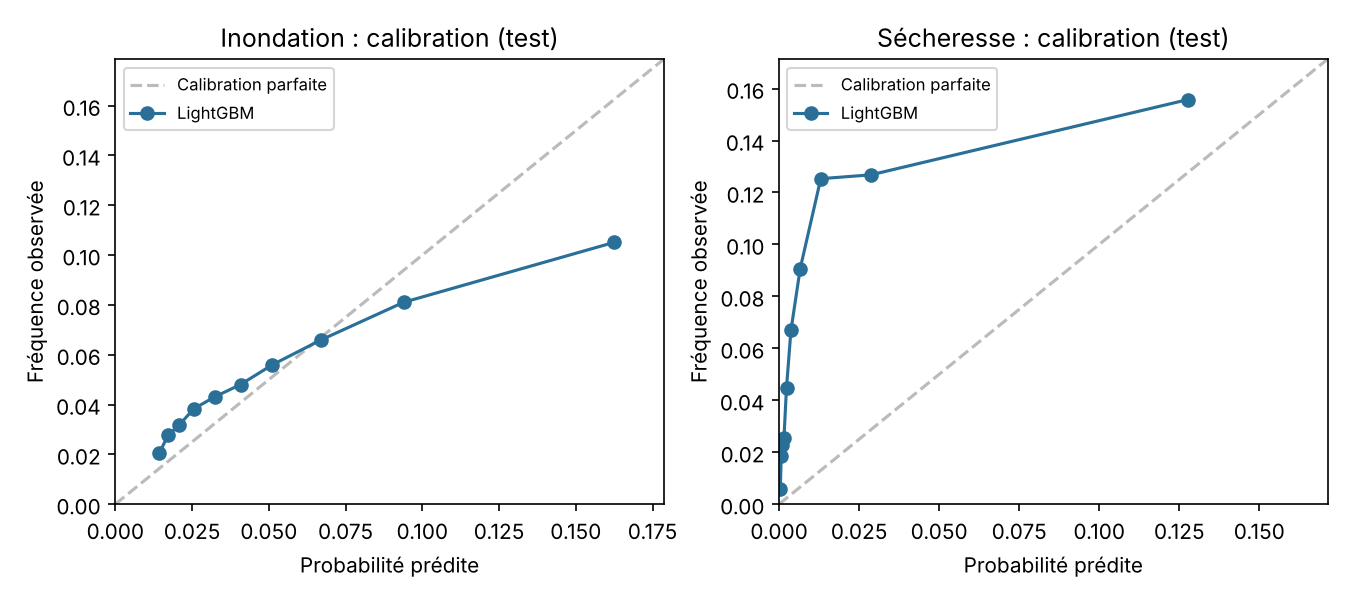
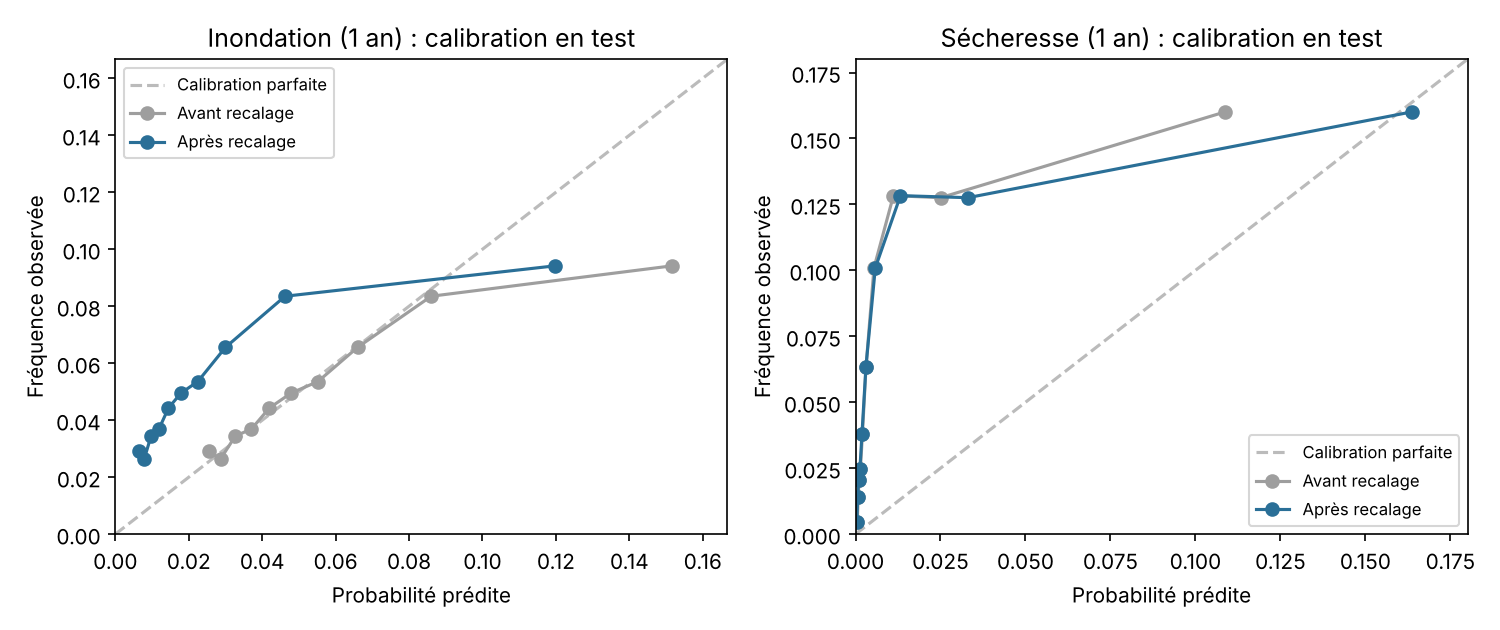
Résultats des améliorations : argiles, horizons 1/3/5 ans, calibration (journal, README, figures)

diff --git a/README.md b/README.md
@@ -21,8 +21,8 @@ Ce projet construit, à partir de données publiques :
 ## 🗺 Feuille de route
 
 - [x] **Étape 1** — Ingestion et qualité : base GASPAR, référentiel des communes, tests unitaires
-- [x] **Étape 2** — Data engineering : modèles dbt dans BigQuery, 26 tests de données dont un test anti-fuite, mise à jour hebdomadaire (GitHub Actions)
-- [x] **Étape 3** — Machine learning : LightGBM par péril, validation temporelle, variables « à date », explicabilité (SHAP)
+- [x] **Étape 2** — Data engineering : modèles dbt dans BigQuery, 30 tests de données dont un test anti-fuite, mise à jour hebdomadaire (GitHub Actions)
+- [x] **Étape 3** — Machine learning : LightGBM par péril à 1, 3 et 5 ans, exposition aux argiles, validation temporelle, variables « à date », explicabilité (SHAP)
 - [ ] **Étape 4** — IA générative : fiches de risque contrôlées, assistant en langage naturel
 - [ ] **Étape 5** — Application Streamlit en ligne, documentation
 
@@ -32,7 +32,8 @@ Ce projet construit, à partir de données publiques :
 |---|---|---|---|
 | [Base GASPAR](https://www.data.gouv.fr/datasets/base-nationale-de-gestion-assistee-des-procedures-administratives-relatives-aux-risques-gaspar) | Ministère de la Transition écologique | Arrêtés de catastrophe naturelle par commune depuis 1982 | Licence Ouverte |
 | [API Découpage administratif](https://geo.api.gouv.fr/decoupage-administratif) | Etalab | Communes, population, superficie, coordonnées | Licence Ouverte |
-| [API Géorisques](https://www.data.gouv.fr/dataservices/api-georisques) *(étape 3)* | Ministère de la Transition écologique, BRGM | Exposition aux inondations et aux argiles | Licence Ouverte |
+| [Zonage d'exposition au retrait-gonflement des argiles](https://files.georisques.fr/argiles/AleaRG_Fxx_L93.zip) | BRGM, via Géorisques | Exposition des sols (2019), croisée avec les communes par `src/exposition_argiles.py` | Licence Ouverte |
+| [Contours des communes](https://geo.api.gouv.fr/decoupage-administratif) | Etalab | Limites communales (2025) | Licence Ouverte |
 
 ## 🔎 Premiers résultats
 
@@ -70,6 +71,7 @@ Le même projet dbt tourne sur **deux bases** : **DuckDB** en local (aucun compt
 | intermediate | `int_evenements` | Événements distincts, communes actuelles, 1982-2024 |
 | intermediate | `int_grille_commune_annee` | Toutes les combinaisons commune × année × péril, **zéros compris** |
 | intermediate | `int_historique_a_date` | Historique de chaque commune **tel qu'il était connu au 1er janvier** (arrêtés déjà signés) |
+| seeds | `exposition_argiles` | Part de chaque commune en exposition faible, moyenne ou forte aux argiles |
 | marts | `dim_commune` | Communes et résumé de leur historique |
 | marts | `fct_evenements` | Un événement reconnu par ligne, prêt pour l'analyse |
 | marts | `mart_features_risque` | **Table d'entraînement du modèle** : historique sur 1, 5 et 10 ans, années depuis le dernier événement, fréquence dans le département, densité… |
@@ -81,21 +83,28 @@ Le même projet dbt tourne sur **deux bases** : **DuckDB** en local (aucun compt
 
 ## 🤖 Modèle de prédiction
 
-Pour chaque commune, un modèle **LightGBM** par péril estime la probabilité d'une reconnaissance CatNat dans l'année, à partir de ce qui était connu au 1er janvier : historique de la commune et du département, taille, localisation.
+Pour chaque commune et chaque péril, des modèles **LightGBM** estiment le risque d'au moins une reconnaissance CatNat **dans 1, 3 ou 5 ans**, à partir de ce qui était connu au 1er janvier : historique de la commune et du département, taille, localisation et **exposition des sols aux argiles** (zonage BRGM).
 
-- **Validation temporelle :** entraînement sur le passé, choix du modèle sur des années de validation, puis **un seul** passage sur des années de test jamais vues (inondation 2021-2024, sécheresse 2017-2021).
-- **Variables « à date » :** au 1er janvier, **aucune** sécheresse de l'année précédente n'est encore reconnue, contre 81 % des inondations. Sans cette règle, le modèle aurait appris avec des informations indisponibles en conditions réelles.
+- **Validation temporelle :** entraînement sur le passé, choix sur des années de validation, puis **un seul** passage sur des années de test jamais vues. Pour les horizons longs, les fenêtres de cible ne se chevauchent jamais entre entraînement, validation et test.
+- **Variables « à date » :** au 1er janvier, **aucune** sécheresse de l'année précédente n'est encore reconnue, contre 81 % des inondations. Les variables ne comptent que les arrêtés déjà signés.
+- **Année exceptionnelle écartée :** en 1999, les tempêtes de décembre ont conduit à reconnaître 78 % des communes en inondation. Les fenêtres qui contiennent cette année inversaient ce que le modèle apprenait ; elles sont exclues de l'entraînement par une règle automatique.
 - **Comparé à deux références :** l'historique de la commune et une régression logistique.
-- **Explicable :** chaque prédiction est décomposée en valeurs SHAP (TreeSHAP exact, identique à la librairie `shap`), et les 3 facteurs principaux sont conservés pour l'IA générative de l'étape 4.
+- **Explicable :** chaque prédiction est décomposée en valeurs SHAP (TreeSHAP exact), et les 3 facteurs principaux sont conservés pour l'IA générative de l'étape 4.
 
-| Péril | AUC test (par année) | Top 10 % des communes jugées les plus à risque |
-|---|---:|---|
-| Inondation | **0,67** (référence : 0,64) | 23 % des communes touchées, **2,3 fois** mieux qu'un ciblage au hasard |
-| Sécheresse | **0,75** (référence : 0,71) | 25 % des communes touchées, **2,5 fois** mieux qu'un ciblage au hasard |
+| Péril | Horizon | AUC test LightGBM | Référence (historique) |
+|---|---|---:|---:|
+| Inondation | 1 an | 0,66 | 0,64 |
+| | 3 ans | 0,68 | 0,66 |
+| | 5 ans | **0,69** | 0,67 |
+| Sécheresse | 1 an | 0,76 | 0,71 |
+| | 3 ans | 0,75 | 0,66 |
+| | 5 ans | **0,81** | 0,70 |
 
-**Ce que le modèle ne sait pas faire, et pourquoi :** une reconnaissance CatNat dépend surtout de la météo de l'année, que personne ne connaît au 1er janvier. Le modèle **classe** les communes à risque, mais ses probabilités brutes ne sont pas fiables en absolu (la sécheresse progresse plus vite que dans les années d'entraînement) : il est donc présenté comme un **classement** (percentile national). Les grandes sécheresses de 2018-2020 ont surtout touché des communes que l'historique ne classait pas parmi les plus exposées. Détail et pistes dans le [journal d'analyse](docs/journal_analyse.md).
+**L'exposition aux argiles est devenue la variable la plus influente pour la sécheresse**, devant la latitude qui servait jusque-là de substitut à la nature du sol. Elle améliore l'AUC de test de 0,02 à 0,03 selon l'horizon.
 
-![AUC par année de test](docs/figures/auc_par_annee.png)
+**Ce que le modèle ne sait pas faire :** une reconnaissance dépend surtout de la météo, inconnue au 1er janvier. Le modèle **classe** bien les communes, mais ses probabilités ne sont pas fiables en valeur absolue, et les recaler sur les années récentes n'a pas suffi (voir le [journal d'analyse](docs/journal_analyse.md)). Le résultat à utiliser est donc le **classement** (percentile national).
+
+![AUC de test par horizon](docs/figures/auc_par_horizon.png)
 
 ![Importance des variables (SHAP)](docs/figures/importance_shap.png)
 
@@ -142,7 +151,7 @@ python src/lancer_dbt.py bigquery  # modèles dbt + tests dans BigQuery
 
 ## 🛠 Stack
 
-Python (pandas, pytest, scikit-learn, LightGBM) · SQL · Google BigQuery · dbt (BigQuery, DuckDB) · GitHub Actions · Workload Identity Federation · scikit-learn · SHAP · Gemini · Streamlit
+Python (pandas, pytest, scikit-learn, LightGBM, GeoPandas) · SQL · Google BigQuery · dbt (BigQuery, DuckDB) · GitHub Actions · Workload Identity Federation · SHAP · Gemini · Streamlit
 
 ---
 

diff --git a/docs/journal_analyse.md b/docs/journal_analyse.md
@@ -241,3 +241,83 @@ La colonne `annee_evaluable` signale les autres lignes, que l'étape 3 n'utilise
 - **Exposition physique :** ajouter la carte d'exposition au retrait-gonflement des argiles (BRGM) et les zones inondables, plutôt que la latitude et la longitude. Ce sont des polygones à croiser avec les contours des communes, d'où un traitement géographique plus lourd.
 - **Recalibrer** les probabilités sur les années récentes, pour les rendre utilisables en tarification.
 - **Horizon pluriannuel :** prédire « au moins une reconnaissance dans les 5 ans » serait moins dépendant de la météo d'une année, et plus proche des besoins d'un assureur.
+
+---
+
+## Étape 3 bis — Améliorer le modèle
+
+Trois pistes, testées dans cet ordre : l'exposition physique des sols, la calibration des probabilités, puis des horizons de prédiction à 3 et 5 ans.
+
+### 1. Exposition aux argiles ✅
+
+- **Hypothèse :** pour la sécheresse, la latitude et la longitude servaient de substitut à la nature du sol. La vraie information devrait faire mieux.
+- **Source :** le zonage d'exposition au retrait-gonflement des argiles du BRGM (2019, 122 222 zones, 3 niveaux). Le service statistique du ministère publie des agrégats, mais par intercommunalité seulement, ce qui est trop grossier.
+- **Méthode :** 200 points tirés au hasard dans chaque commune (contours Etalab 2025), puis croisés avec les zones. La part des points donne la part du territoire par niveau d'exposition. Le calcul (7 millions de points, 13 minutes) tourne une seule fois sur GitHub Actions ; le résultat (34 881 communes) est versionné comme table de référence dbt (`seeds/exposition_argiles.csv`).
+- **Contrôle de vraisemblance :** le Gers (91 % de surface en exposition forte), le Lot-et-Garonne et la Haute-Garonne sont en tête, comme attendu dans le Sud-Ouest argileux. La Bretagne et la Corse sont peu exposées. Paris n'est pas couvert par la carte.
+- **Résultat :** la part en exposition forte devient **la variable la plus influente** du modèle sécheresse, devant la latitude.
+
+| Sécheresse | AUC validation sans → avec | AUC test sans → avec |
+|---|---:|---:|
+| 1 an | 0,906 → 0,916 | 0,738 → 0,759 |
+| 3 ans | 0,902 → 0,918 | 0,722 → 0,751 |
+| 5 ans | 0,910 → 0,920 | 0,778 → 0,808 |
+
+- Pour l'inondation, l'effet est nul, ce qui est logique : ce n'est pas le bon phénomène physique. Les variables sont gardées pour la simplicité (un seul jeu de variables), sans dégrader les résultats.
+- **Limite :** le zonage date de 2019 et s'appuie en partie sur des sinistres passés. Pour les années de test 2017-2018, une petite part d'information postérieure est possible. La géologie, elle, ne change pas.
+- **Non fait pour l'inondation :** il n'existe pas de carte nationale unique des zones inondables en open data (les enveloppes EAIP sont publiées région par région). Les plans de prévention et atlas datés de GASPAR avaient déjà été testés sans gain.
+
+### 2. Horizons de 3 et 5 ans
+
+- **Cible :** au moins une reconnaissance entre l'année t et l'année t + h - 1.
+- **Découpage :** une fenêtre de 5 ans démarrant en 2018 couvre 2018-2022. Pour qu'aucune année de cible ne soit partagée, l'entraînement s'arrête 5 ans avant le début de la validation, et la validation 5 ans avant le test (test unitaire dédié). Seules les fenêtres entièrement évaluables sont utilisées (sécheresse : jusqu'en 2021).
+
+#### ❌ Une anomalie : l'inondation à 5 ans sous le hasard
+
+- **Observation :** au premier essai, l'AUC de validation de l'inondation à 5 ans valait **0,47**, pire que le hasard, alors que l'historique seul faisait 0,61.
+- **Diagnostic :** par année de départ, l'historique est un bon prédicteur (AUC 0,6 à 0,7)… sauf pour les fenêtres qui contiennent **1999**, où il s'inverse (AUC 0,37 à 0,43).
+- **Cause :** en 1999, **77,9 %** des communes ont été reconnues en inondation, contre 1 à 16 % les autres années (tempêtes de décembre). Les communes jamais touchées l'ont été aussi. Les fenêtres de 1995 à 1999 contiennent toutes cette année, avec plus de 80 % de communes « touchées », et elles pèsent lourd dans l'entraînement à 5 ans (1992-2007). Le modèle y apprenait « moins une commune a d'historique, plus elle est à risque ».
+- **Vérification (validation) :** en entraînant à partir des fenêtres de 2000, l'AUC de validation passe de 0,46 à 0,63. Avec la règle finale ci-dessous, qui ne retire que les fenêtres contenant 1999, elle vaut 0,625.
+- 📌 **Décision :** une règle explicite plutôt qu'un cas codé à la main. Une année où plus de 50 % des communes sont reconnues est « exceptionnelle », et les fenêtres d'entraînement qui la contiennent sont écartées. Seule 1999 (inondation) est concernée. La règle améliore aussi l'horizon d'un an (validation 0,746 → 0,790).
+
+#### Résultats
+
+| Péril | Horizon | Communes touchées (test) | AUC validation | AUC test | Historique (test) | Régression logistique (test) |
+|---|---|---:|---:|---:|---:|---:|
+| Inondation | 1 an | 5,2 % | 0,790 | 0,657 | 0,644 | 0,659 |
+| | 3 ans | 12,2 % | 0,642 | 0,676 | 0,658 | 0,661 |
+| | 5 ans | 19,3 % | 0,625 | **0,694** | 0,666 | 0,640 |
+| Sécheresse | 1 an | 6,8 % | 0,916 | 0,759 | 0,710 | 0,753 |
+| | 3 ans | 18,1 % | 0,918 | 0,751 | 0,663 | 0,715 |
+| | 5 ans | 23,7 % | 0,920 | **0,808** | 0,697 | 0,776 |
+
+- **Plus l'horizon est long, mieux le modèle classe** : le hasard météo d'une année se lisse sur plusieurs années.
+- LightGBM bat l'historique à tous les horizons, et la régression logistique à 3 et 5 ans. À 1 an pour l'inondation, les trois approches se valent.
+
+### 3. Calibration des probabilités ❌ (résultat négatif, conservé)
+
+- **Méthode :** recalage de Platt (deux paramètres sur le score du modèle) appris sur les années de validation, puis mesuré en test. Le classement des communes ne change pas.
+- **Résultat :**
+
+| Péril | Horizon | Prédit avant → après recalage | Observé | Score de Brier avant → après |
+|---|---|---:|---:|---:|
+| Inondation | 1 an | 5,7 % → 2,9 % | 5,2 % | 0,0492 → 0,0499 |
+| | 3 ans | 14,4 % → 14,8 % | 12,2 % | 0,1034 → 0,1035 |
+| | 5 ans | 24,7 % → 20,8 % | 19,3 % | 0,1485 → 0,1452 |
+| Sécheresse | 1 an | 1,6 % → 2,2 % | 6,8 % | 0,0650 → 0,0652 |
+| | 3 ans | 5,5 % → 2,2 % | 18,1 % | 0,1595 → 0,1697 |
+| | 5 ans | 8,9 % → 8,3 % | 23,7 % | 0,1790 → 0,1829 |
+
+- **Le recalage n'aide qu'à 5 ans pour l'inondation.** Ailleurs, il est neutre ou dégrade la calibration.
+- **Pourquoi :**
+  - le taux de communes reconnues varie d'un facteur 10 d'une année à l'autre selon la météo (sécheresse : 0,7 % en 2021, 11,6 % en 2018). Recaler sur deux années revient à recaler sur deux tirages : l'inondation 2019-2020 (2,6 % et 3,4 %) a tiré les probabilités vers le bas, juste avant des années plus fortes ;
+  - la sécheresse suit en plus une **tendance de fond** (H1) : les années de recalage sont toujours en retard sur le niveau actuel.
+- 📌 **Décision :** le recalage reste dans le pipeline de production, appris sur les fenêtres les plus récentes, mais les probabilités sont présentées comme **indicatives**. Le résultat fiable, c'est le **classement** (`percentile_national`). Changer de méthode maintenant, après avoir vu le test, reviendrait à l'utiliser pour choisir.
+- **Piste :** recaler sur une période plus longue (5 à 10 ans) pour lisser la météo, et modéliser explicitement la tendance de la sécheresse.
+
+### Bilan
+
+| | Avant | Après |
+|---|---|---|
+| Sécheresse, meilleur horizon | 0,75 (1 an) | **0,81 (5 ans)** |
+| Inondation, meilleur horizon | 0,67 (1 an) | **0,69 (5 ans)** |
+| Variable n° 1, sécheresse | latitude | **exposition forte aux argiles** |
